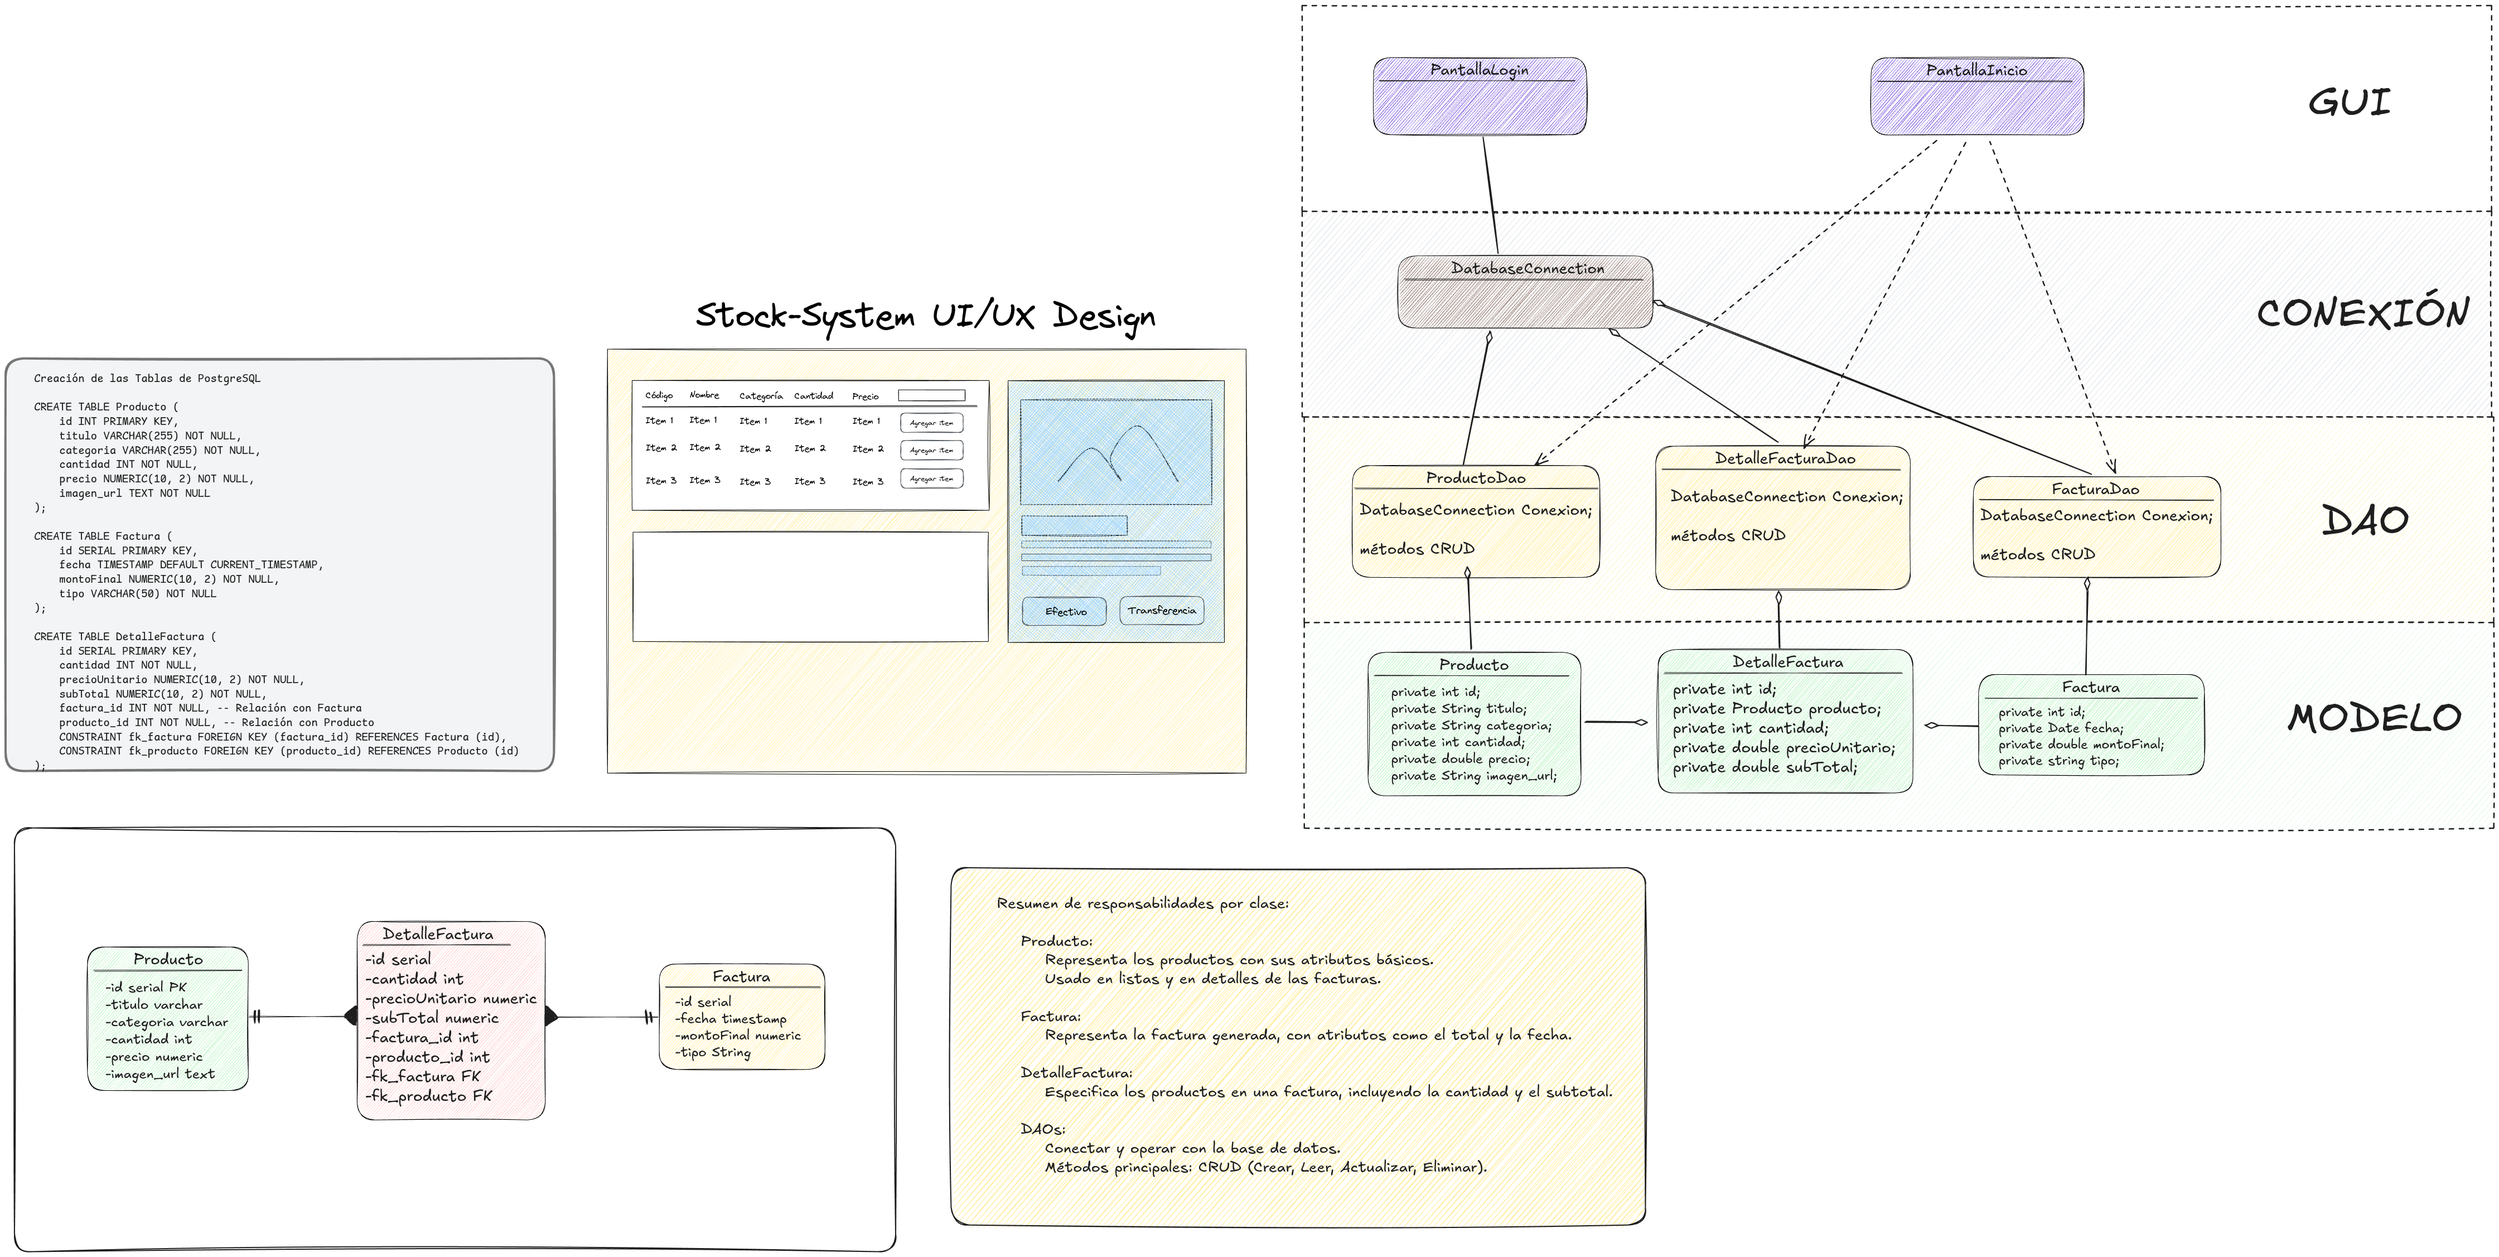
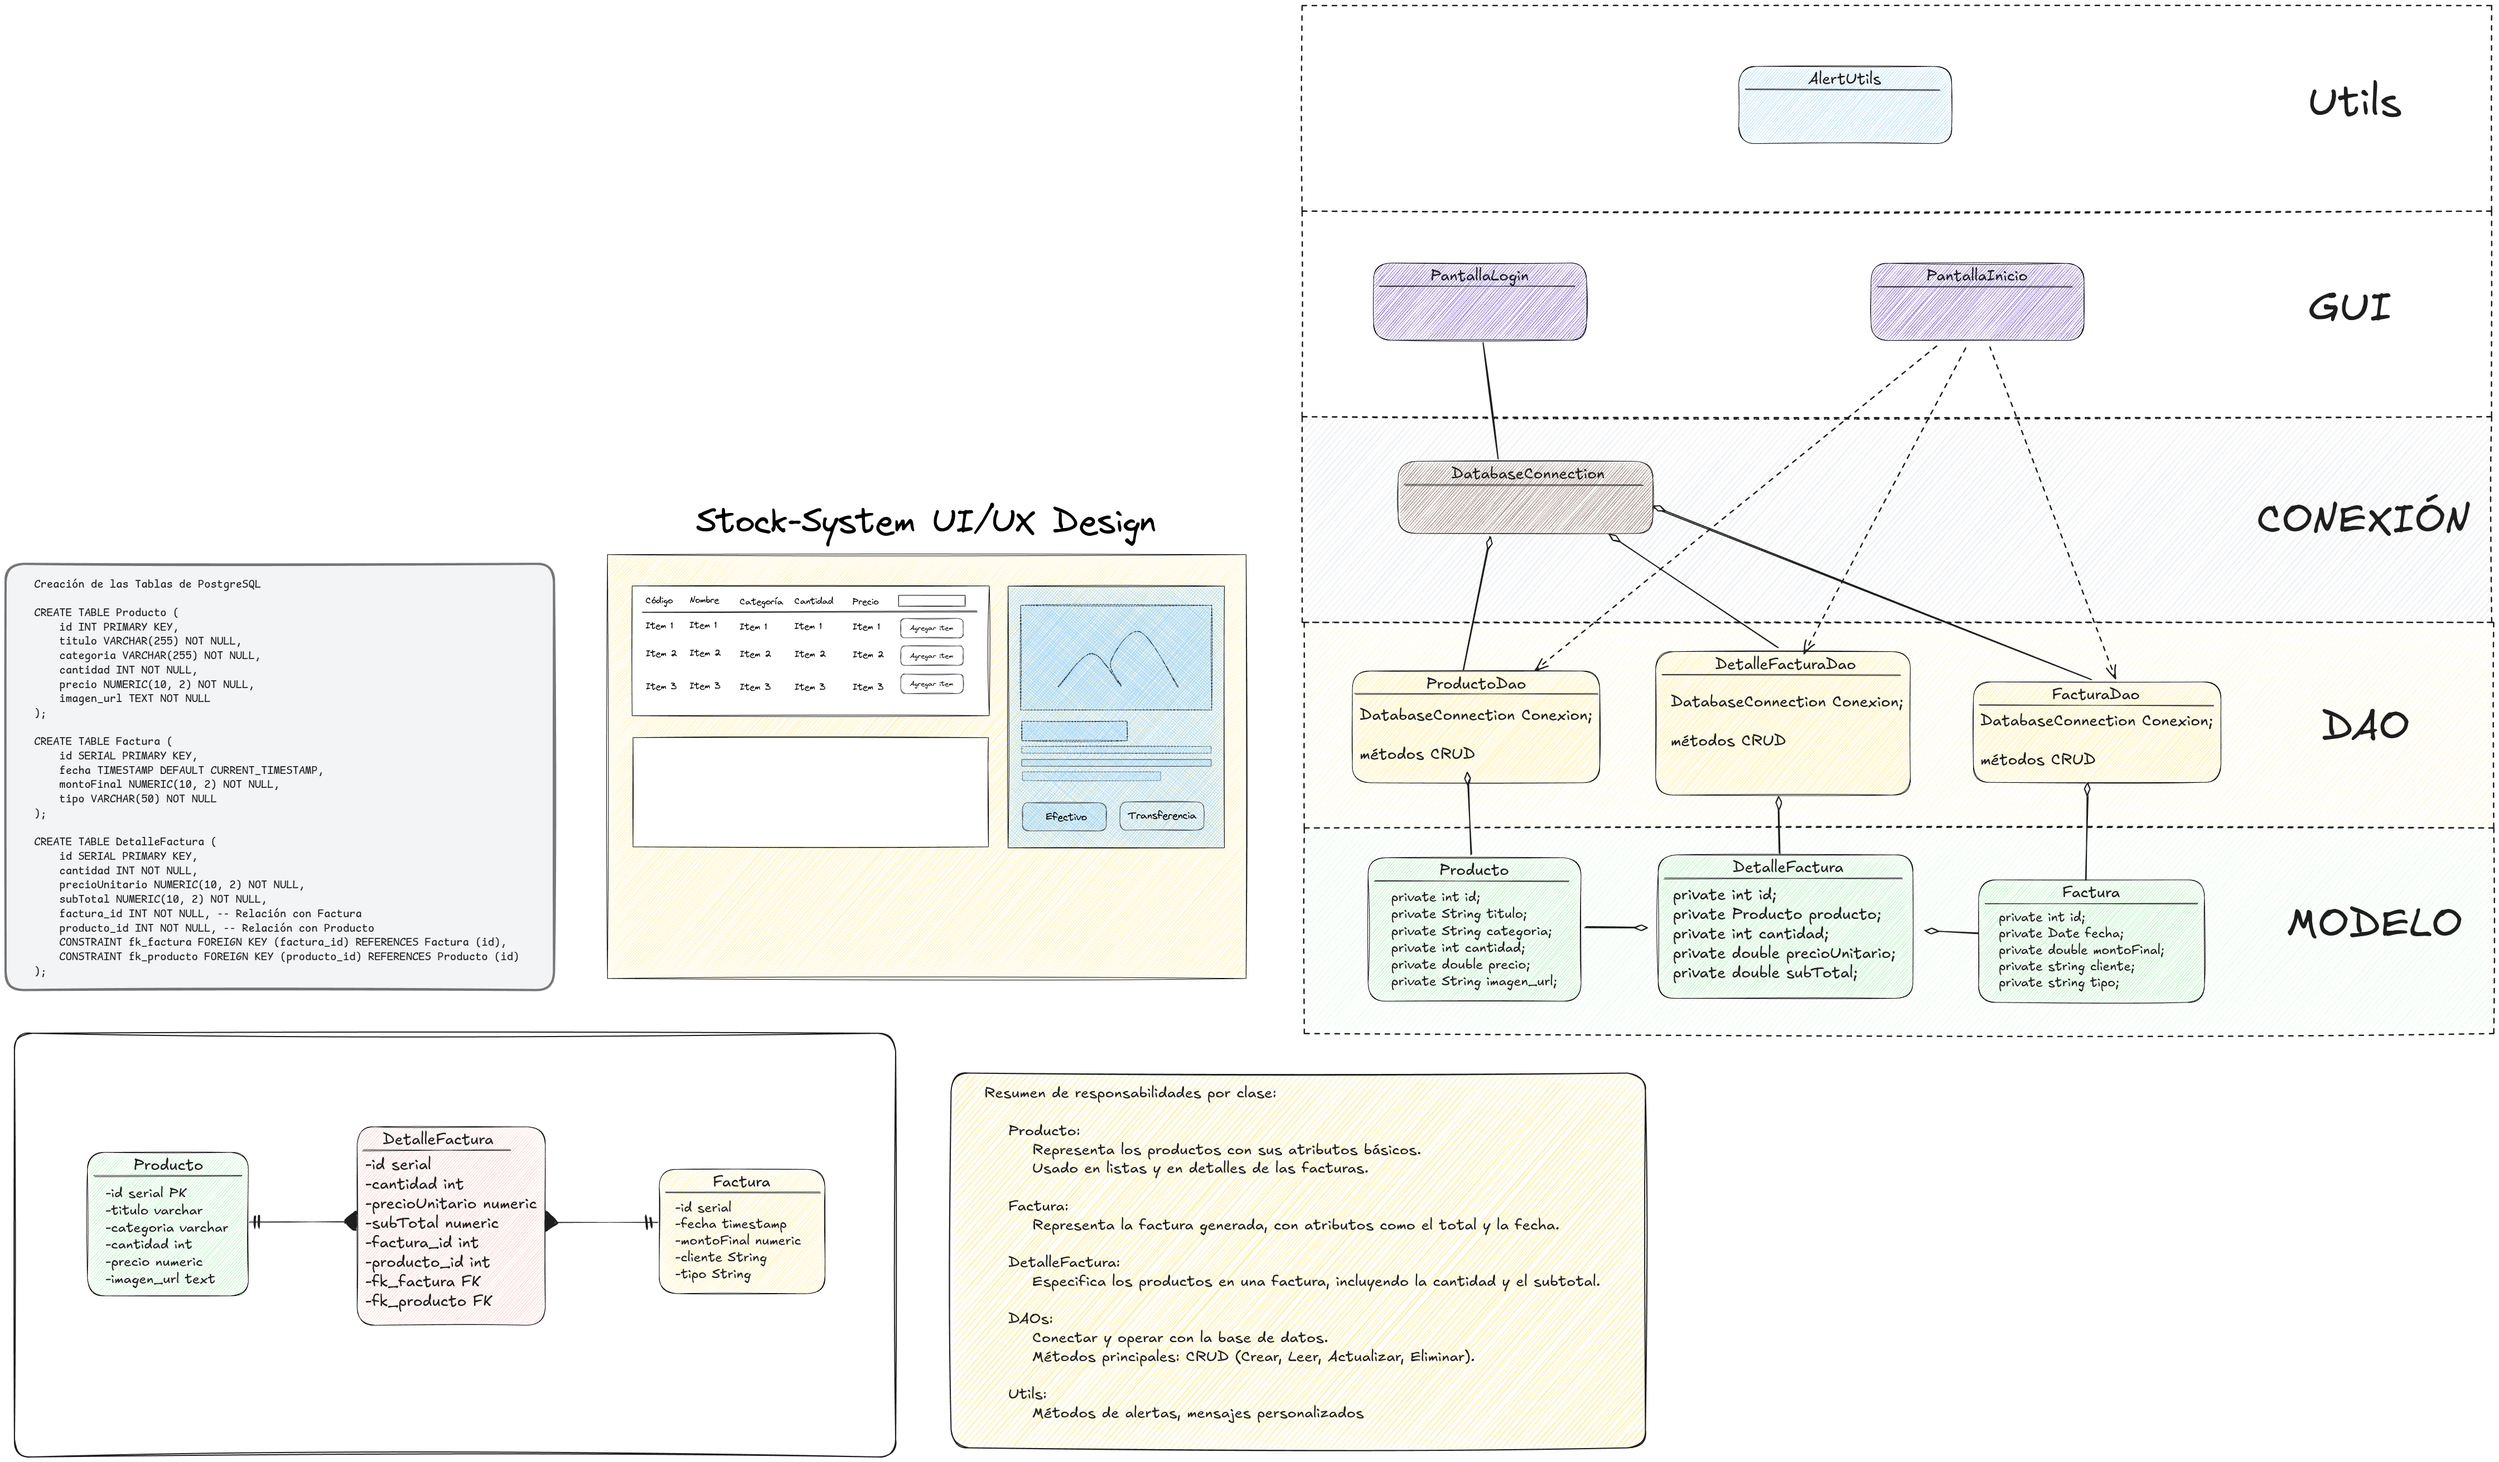
UML

diff --git a/src/main/java/utils/AlertUtil.java b/src/main/java/utils/AlertUtil.java
@@ -1,0 +1,4 @@
+package dao;
+
+public class AlertUtil {
+}
